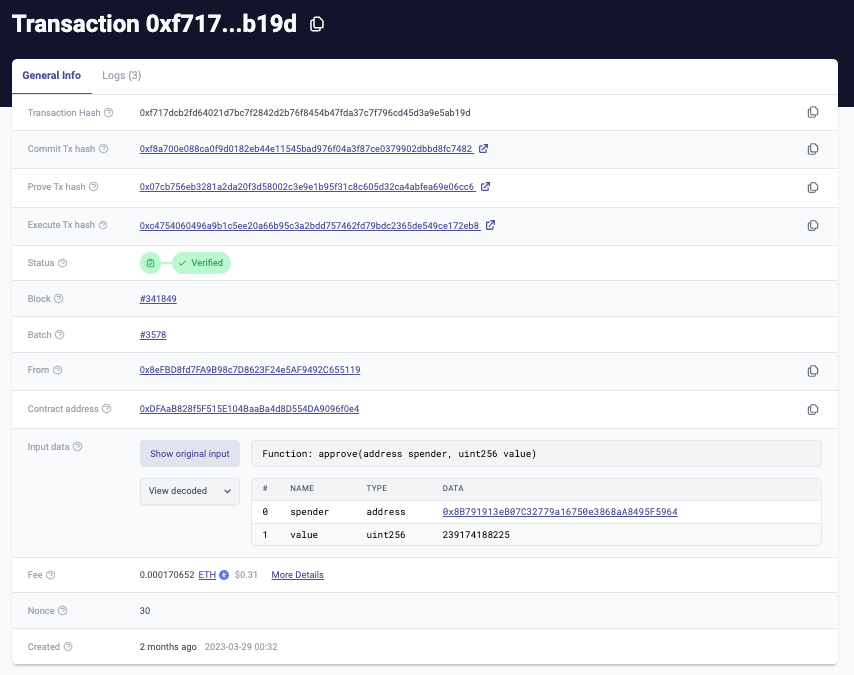
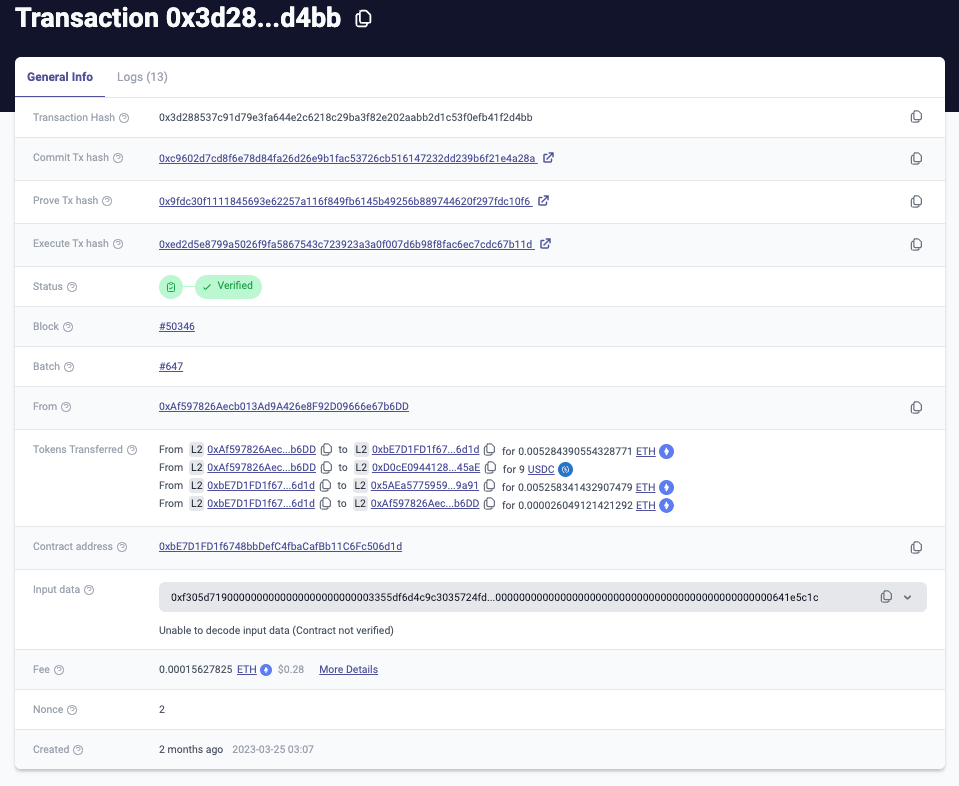
Update block explorer menu page

diff --git a/docs/tools/block-explorer/block-explorer-menu.md b/docs/tools/block-explorer/block-explorer-menu.md
@@ -6,7 +6,7 @@ The [zkSync Era block explorer menu](https://explorer.zksync.io/) displays real-
 
 ## Blocks
 
-- Click **Block** in the block explorer menu to go to the Blocks page.
+- Click [**Blocks**](https://explorer.zksync.io/blocks/) in the block explorer menu to go to the Blocks page.
 
 ![zkSync Era block explorer blocks page](../../assets/images/blocks.png)
 
@@ -28,7 +28,7 @@ The [zkSync Era block explorer menu](https://explorer.zksync.io/) displays real-
 
 ## Batches
 
-- Click **Batch** in the block explorer menu to go to the Batches page.
+- Click [**Batches**](https://explorer.zksync.io/batches/) in the block explorer menu to go to the Batches page.
 
 ![zkSync Era block explorer batches page](../../assets/images/batches.png)
 
@@ -48,31 +48,37 @@ The [zkSync Era block explorer menu](https://explorer.zksync.io/) displays real-
 
 ## Transactions
 
-- Click **Transactions** in the block explorer menu to go to the Transactions page.
+- Click [**Transactions**](https://explorer.zksync.io/transactions/) in the block explorer menu to go to the Transactions page.
 
 ![zkSync Era block explorer transactions page](../../assets/images/transactions.png)
 
 - Transactions are listed by status and transaction hash, newest first, with the initiator address, recipient, nonce, amount, fee, and age.
 
-- Click on any transaction hash to see more details.
+- Click on a transaction hash to see more details.
 
 ![zkSync Era block explorer transaction details page](../../assets/images/transaction-details.png)
 
 | Data point        | Description         |
 | ----------------- | ------------------- |
-| Transaction Hash  | The hash of the transaction serving as the transaction’s ID.   |
-| Commit Tx hash    |    |
-| Prove Tx hash    |    |
-| Execute Tx hash    |    |
-| Status    |    |
-| Block    |    |
-| Batch    |    |
-| From          | The account or smart contract, sending the transaction.      |
-| Contract address      | The account or smart contract, receiving the transaction.        |
-| Input data          | The account or smart contract, sending the transaction.      |
-| Fee               | The rate of fees associated with this transaction processing.    |
-| Nonce             | A unique identifier assigned to each transaction that is used to order transactions.     |                                                                            |
-| Created              | The number of block confirmations that have occurred since the transaction was first included in the block.                                              |
-
+| Transaction Hash  | Unique 66 character identifier generated when transaction submitted to L2.  |
+| Commit Tx hash    | Unique 66 character identifier generated when transaction committed to L1.  |
+| Prove Tx hash     | Unique 66 character identifier generated when transaction proven on L1.     |
+| Execute Tx hash   | Unique 66 character identifier generated when transaction executed on L1.   |
+| Status    | One of `Pending`, `Included`, `Verified`, or `Failed`.   |
+| Block    |  Block number containing the transaction.  |
+| Batch    |  Batch number containing the transaction.  |
+| From          | The account or smart contract address sending the transaction.      |
+| Tokens Transferred    |  Details on all tokens transferred by the transaction.  |
+| Contract address      | The transaction recipient.        |
+| Input data          |  Any additional data used by the transaction for verified contracts.      |
+| Fee      | Fee for the tx in ETH and USD value. Click **More Details** to see info on refunds.   |
+| Nonce     | Sender nonce.  |                        
+| Created      | Timestamp of when the transaction was added to the block.                        |
 
 ## Token list
+
+- Click [**Token List**](https://explorer.zksync.io/tokenlist) in the block explorer menu to go to the Token List page.
+
+![zkSync Era block explorer token list page](../../assets/images/token-list.png)
+
+- Use the token addresses for bridging tokens.
